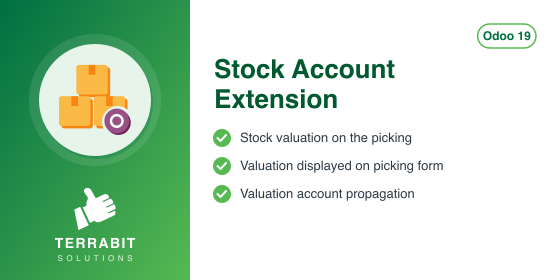
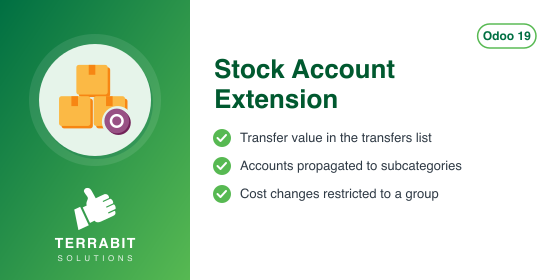
[DOC] 43 modules: Apps descriptions match the code
Apps description audit of 02.11.2026, section B (free modules): each finding
was checked in the code, then readme/DESCRIPTION.md rewritten from what the
module does on 19.0, with a Limitations section where a feature is missing or
incomplete. Summaries and banners that promised the same were aligned.
Version bump and HISTORY entry on each module. No code change.

Assisted-by: Claude Opus 5.5

Changed region(s): [[0.425, 0.5714, 0.8196, 0.6286], [0.425, 0.4571, 0.7893, 0.5143], [0.425, 0.6571, 0.7893, 0.7143]]

diff --git a/deltatech_stock_account/static/description/index.html b/deltatech_stock_account/static/description/index.html
@@ -5,7 +5,7 @@
     <span class="d-inline-block rounded-4 p-2 flex-shrink-0 my-2" style="background-color:#ffffff;margin-right:24px;"><img src="icon.png" alt="Stock Account Extension" style="width:80px;height:80px;border:none;"/></span>
     <div class="flex-grow-1 my-2" style="width:320px;min-width:0;margin-right:24px;">
       <h1 class="fw-bold mb-2" style="color:#ffffff;font-size:36px;line-height:1.1;letter-spacing:-0.5px;border:none;">Stock Account Extension</h1>
-      <p class="mb-3" style="font-size:18px;color:#cdeccf;line-height:1.45;">Show stock valuation directly on transfers</p>
+      <p class="mb-3" style="font-size:18px;color:#cdeccf;line-height:1.45;">Transfer values, category accounts, cost control</p>
       <div>
         <span class="d-inline-block rounded-pill fw-bold me-2 mb-2" style="background-color:#ffffff;border:1px solid #ffffff;color:#006F42;padding:6px 14px;font-size:12px;">Odoo 19.0</span>
         <span class="d-inline-block rounded-pill fw-semibold me-2 mb-2" style="border:1px solid #8fd1ad;color:#ffffff;padding:6px 14px;font-size:12px;">Generic Modules</span>
@@ -46,14 +46,45 @@
 <div class="tab-content">
 <div class="tab-pane fade show active py-2" id="tb-panel-overview" style="font-size:16px;line-height:1.65;color:#212529;font-weight:400;">
 <h2 class="fw-bold mb-3" style="border:none;border-left:4px solid #57B952;padding-left:16px;font-size:24px;letter-spacing:-0.3px;line-height:1.2;">Overview</h2>
-<p class="mb-4" style="font-size:16px;line-height:1.65;max-width:780px;">Features:</p>
+<p class="mb-4" style="font-size:16px;line-height:1.65;max-width:780px;">Small additions to stock valuation: the value of each transfer in the transfers
+list, accounting settings passed from a product category to its subcategories,
+and control over who may change the cost of a product that is in stock.</p>
+<p><strong>Value of transfers.</strong> Adds an <strong>Amount</strong> column to the transfers list
+(for example <em>Inventory &gt; Operations &gt; Transfers &gt; Receipts</em>), with the total at the bottom. The amount
+is the sum of the valuation <strong>Value</strong> of the stock moves of the transfer; moves
+that are not valued (for example internal transfers) count as zero.</p>
+<p><strong>Accounts propagated to subcategories.</strong> When the <strong>Stock Account</strong> of a product
+category is changed, the category's accounting settings are copied to all its
+subcategories: <strong>Income Account</strong>, <strong>Expense Account</strong>, <strong>Stock Account</strong>,
+<strong>Price Difference Account</strong>, <strong>Stock Journal</strong>, <strong>Costing Method</strong> and
+<strong>Inventory Valuation</strong>. The same copy can be run at any time with the
+<strong>Propagate Accounts</strong> action on the category form (developer mode).</p>
+<p><strong>Settings inherited from the parent category.</strong> When you choose a <strong>Parent
+Category</strong> on a category, the same accounting settings are copied from the
+parent.</p>
+<p><strong>Cost changes restricted.</strong> Only users in the <strong>Change Product Price</strong> group can
+change the <strong>Cost</strong> of a product that has quantity on hand. Other users get an
+access error. The administrator is in the group by default.</p>
+<h2 class="fw-bold mt-4 mb-3" style="border:none;border-left:4px solid #57B952;padding-left:16px;font-size:24px;letter-spacing:-0.3px;line-height:1.2;">Configuration</h2>
+<p>Add users to the <strong>Change Product Price</strong> group in *Settings &gt; Users &amp; Companies</p>
+<blockquote>
+<p>Groups* (developer mode).</p>
+</blockquote>
+<h2 class="fw-bold mt-4 mb-3" style="border:none;border-left:4px solid #57B952;padding-left:16px;font-size:24px;letter-spacing:-0.3px;line-height:1.2;">Limitations</h2>
 <ul>
-<li>adds the stock valuation on the picking</li>
-<li>display the stock valuation on the picking form</li>
+<li>The value of a transfer is shown only in the transfers list, not on the
+  transfer form.</li>
+<li>The <strong>Stock Variation Account</strong> of the category is not propagated.</li>
 </ul>
 </div>
 <div class="tab-pane fade py-2" id="tb-panel-versions" style="font-size:16px;line-height:1.65;color:#212529;font-weight:400;">
 <h2 class="fw-bold mb-3" style="border:none;border-left:4px solid #57B952;padding-left:16px;font-size:24px;letter-spacing:-0.3px;line-height:1.2;">Versions</h2>
+<h2 class="fw-bold mt-4 mb-3" style="border:none;border-left:4px solid #57B952;padding-left:16px;font-size:24px;letter-spacing:-0.3px;line-height:1.2;">19.0.1.0.10 (2026-11-03)</h2>
+<ul>
+<li>Description rewritten from the code: the transfer value is shown in the transfers list, not on the transfer form.</li>
+<li>Documented the account propagation to subcategories and the Change Product Price group, which the old description did not mention.</li>
+<li>Summary and banner corrected.</li>
+</ul>
 <h2 class="fw-bold mt-4 mb-3" style="border:none;border-left:4px solid #57B952;padding-left:16px;font-size:24px;letter-spacing:-0.3px;line-height:1.2;">19.0.1.0.9 (2026-10-16)</h2>
 <ul>
 <li>Development status raised from Beta to Production/Stable: the module has been in
@@ -192,7 +223,7 @@
               <span class="d-block" style="font-size:13px;color:#3d4752;">Generic Modules</span>
             </span>
           </div>
-          <p class="mb-0" style="font-size:15px;line-height:1.45;color:#3d4752;">Keep CMRs, certificates and other shipping documents in one place</p>
+          <p class="mb-0" style="font-size:15px;line-height:1.45;color:#3d4752;">See the files attached to orders, transfers and invoices from any of them</p>
         </div>
       </a>
     </div>
@@ -252,7 +283,7 @@
               <span class="d-block" style="font-size:13px;color:#3d4752;">Generic Modules</span>
             </span>
           </div>
-          <p class="mb-0" style="font-size:15px;line-height:1.45;color:#3d4752;">Payment analysis report by journal and period, with a filter wizard</p>
+          <p class="mb-0" style="font-size:15px;line-height:1.45;color:#3d4752;">Customer receipts by payment and invoice journal over a period, with a filter wizard</p>
         </div>
       </a>
     </div>

diff --git a/deltatech_stock_account/__manifest__.py b/deltatech_stock_account/__manifest__.py
@@ -4,8 +4,8 @@
 
 {
     "name": "Stock Account Extension",
-    "summary": "Stock valuation shown on the transfer form",
-    "version": "19.0.1.0.9",
+    "summary": "Transfer value in the transfers list, category account propagation, cost change control",
+    "version": "19.0.1.0.10",
     "author": "Terrabit, Dorin Hongu",
     "website": "https://www.terrabit.ro",
     "category": "Generic Modules",

diff --git a/deltatech_stock_account/README.rst b/deltatech_stock_account/README.rst
@@ -22,10 +22,48 @@ Stock Account Extension
 
 |badge1| |badge2| |badge_tests|
 
-Features:
+Small additions to stock valuation: the value of each transfer in the
+transfers list, accounting settings passed from a product category to
+its subcategories, and control over who may change the cost of a product
+that is in stock.
 
-- adds the stock valuation on the picking
-- display the stock valuation on the picking form
+**Value of transfers.** Adds an **Amount** column to the transfers list
+(for example *Inventory > Operations > Transfers > Receipts*), with the
+total at the bottom. The amount is the sum of the valuation **Value** of
+the stock moves of the transfer; moves that are not valued (for example
+internal transfers) count as zero.
+
+**Accounts propagated to subcategories.** When the **Stock Account** of
+a product category is changed, the category's accounting settings are
+copied to all its subcategories: **Income Account**, **Expense
+Account**, **Stock Account**, **Price Difference Account**, **Stock
+Journal**, **Costing Method** and **Inventory Valuation**. The same copy
+can be run at any time with the **Propagate Accounts** action on the
+category form (developer mode).
+
+**Settings inherited from the parent category.** When you choose a
+**Parent Category** on a category, the same accounting settings are
+copied from the parent.
+
+**Cost changes restricted.** Only users in the **Change Product Price**
+group can change the **Cost** of a product that has quantity on hand.
+Other users get an access error. The administrator is in the group by
+default.
+
+Configuration
+-------------
+
+Add users to the **Change Product Price** group in \*Settings > Users &
+Companies
+
+   Groups\* (developer mode).
+
+Limitations
+-----------
+
+- The value of a transfer is shown only in the transfers list, not on
+  the transfer form.
+- The **Stock Variation Account** of the category is not propagated.
 
 **Table of contents**
 
@@ -34,6 +72,15 @@ Features:
 
 Changelog
 =========
+
+19.0.1.0.10 (2026-11-03)
+------------------------
+
+- Description rewritten from the code: the transfer value is shown in
+  the transfers list, not on the transfer form.
+- Documented the account propagation to subcategories and the Change
+  Product Price group, which the old description did not mention.
+- Summary and banner corrected.
 
 19.0.1.0.9 (2026-10-16)
 -----------------------

diff --git a/deltatech_stock_account/readme/DESCRIPTION.md b/deltatech_stock_account/readme/DESCRIPTION.md
@@ -1,4 +1,34 @@
-Features:
+Small additions to stock valuation: the value of each transfer in the transfers
+list, accounting settings passed from a product category to its subcategories,
+and control over who may change the cost of a product that is in stock.
 
-- adds the stock valuation on the picking
-- display the stock valuation on the picking form
+**Value of transfers.** Adds an **Amount** column to the transfers list
+(for example *Inventory > Operations > Transfers > Receipts*), with the total at the bottom. The amount
+is the sum of the valuation **Value** of the stock moves of the transfer; moves
+that are not valued (for example internal transfers) count as zero.
+
+**Accounts propagated to subcategories.** When the **Stock Account** of a product
+category is changed, the category's accounting settings are copied to all its
+subcategories: **Income Account**, **Expense Account**, **Stock Account**,
+**Price Difference Account**, **Stock Journal**, **Costing Method** and
+**Inventory Valuation**. The same copy can be run at any time with the
+**Propagate Accounts** action on the category form (developer mode).
+
+**Settings inherited from the parent category.** When you choose a **Parent
+Category** on a category, the same accounting settings are copied from the
+parent.
+
+**Cost changes restricted.** Only users in the **Change Product Price** group can
+change the **Cost** of a product that has quantity on hand. Other users get an
+access error. The administrator is in the group by default.
+
+## Configuration
+
+Add users to the **Change Product Price** group in *Settings > Users & Companies
+> Groups* (developer mode).
+
+## Limitations
+
+- The value of a transfer is shown only in the transfers list, not on the
+  transfer form.
+- The **Stock Variation Account** of the category is not propagated.

diff --git a/deltatech_stock_account/readme/HISTORY.md b/deltatech_stock_account/readme/HISTORY.md
@@ -1,3 +1,9 @@
+## 19.0.1.0.10 (2026-11-03)
+
+- Description rewritten from the code: the transfer value is shown in the transfers list, not on the transfer form.
+- Documented the account propagation to subcategories and the Change Product Price group, which the old description did not mention.
+- Summary and banner corrected.
+
 ## 19.0.1.0.9 (2026-10-16)
 
 - Development status raised from Beta to Production/Stable: the module has been in
